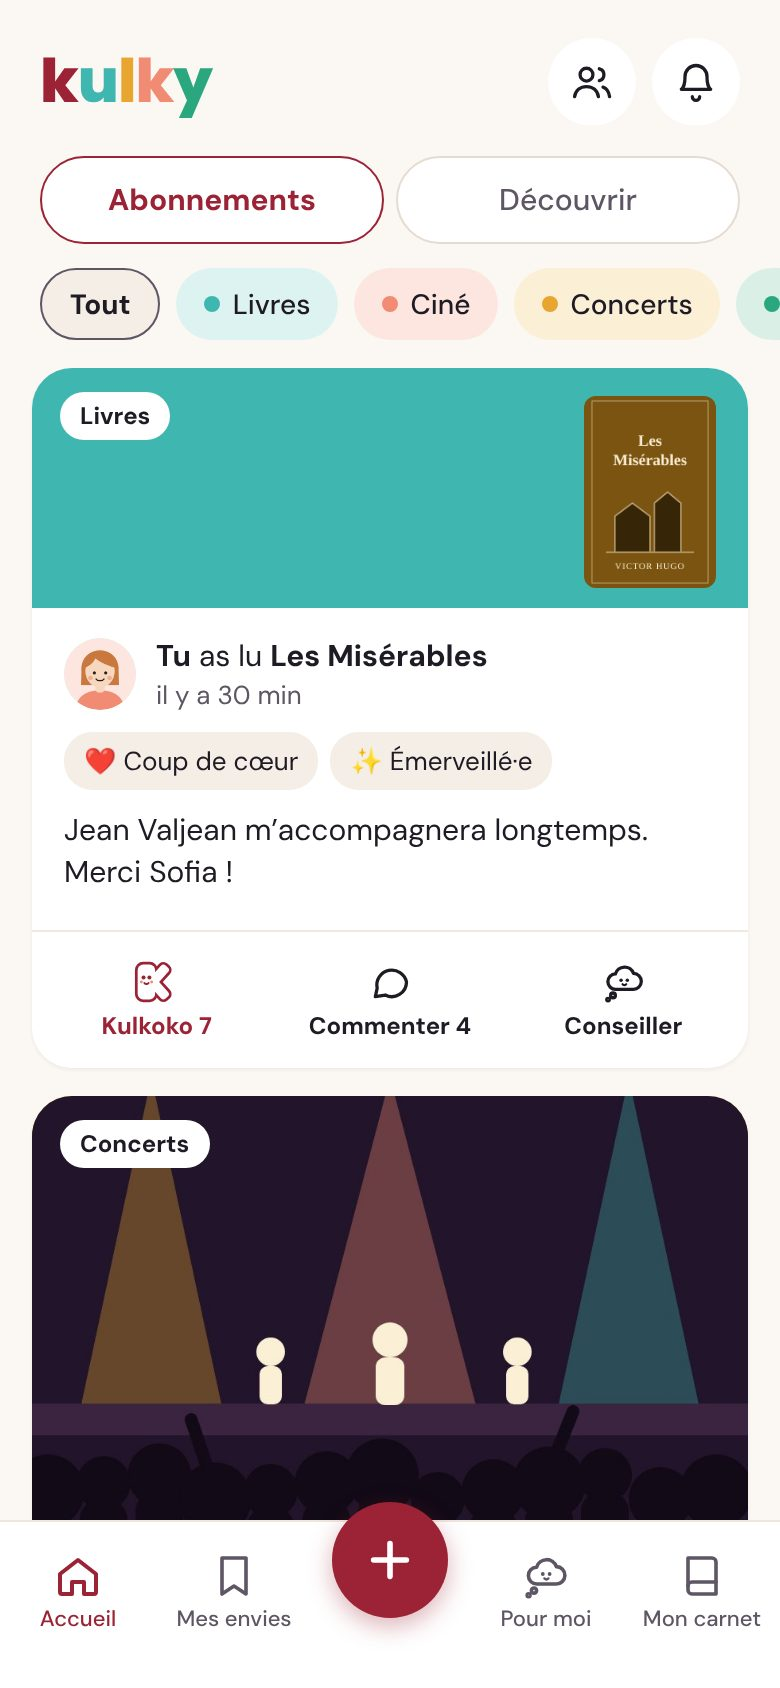
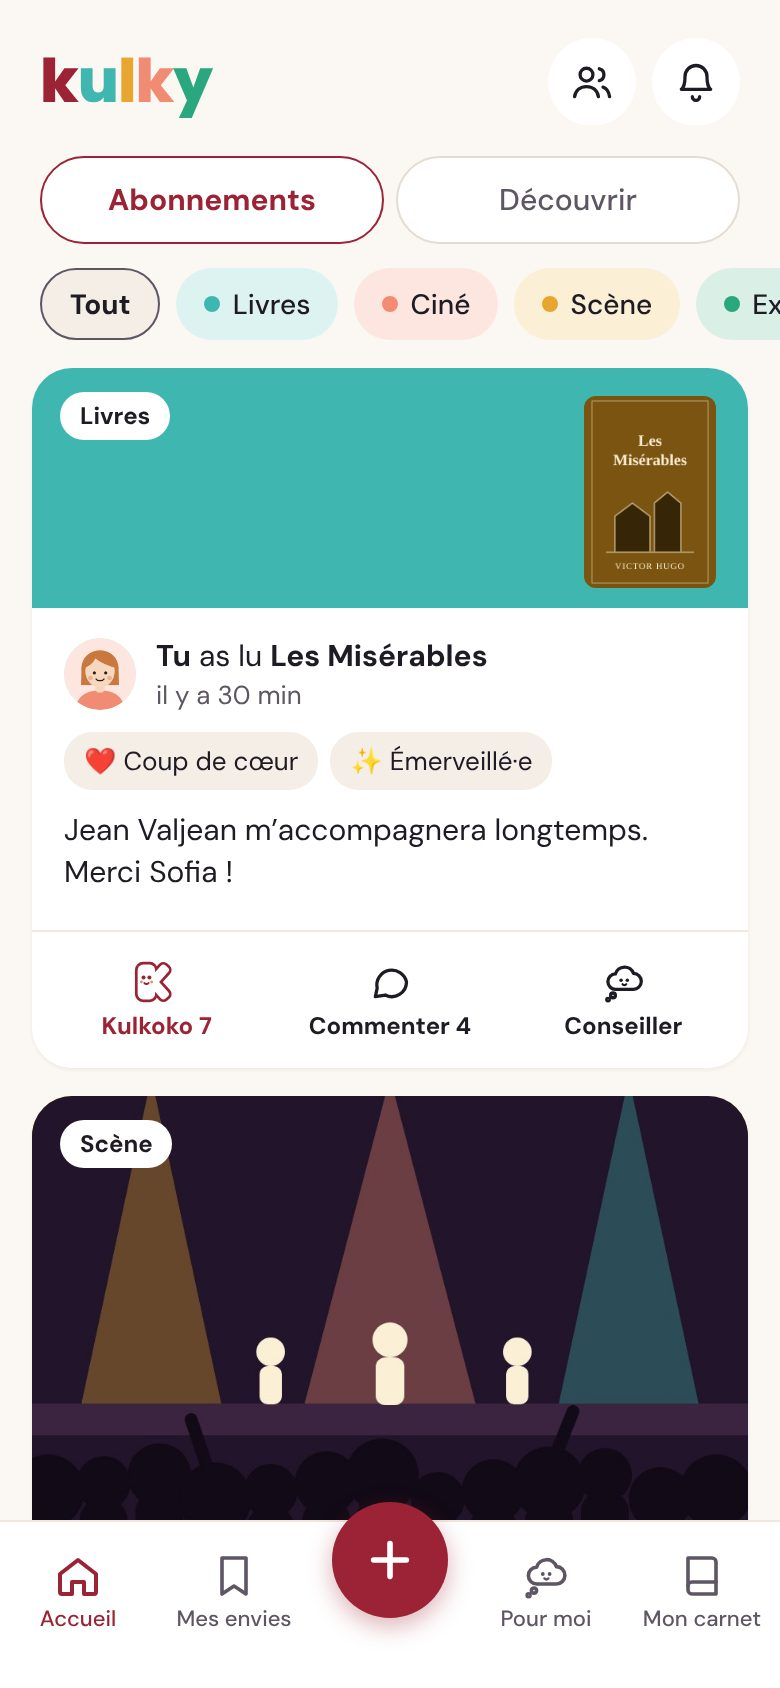
Site : concerts et spectacles, le spectacle de cirque de Noé, un seul bouton en haut
Claude-Session: https://claude.ai/code/session_01Wusw4yQXqijhUfB2C8zxN9

Changed region(s): [[0.7385, 0.154, 1.0, 0.2156], [0.1231, 0.6469, 0.2769, 0.7085]]

diff --git a/site/index.html b/site/index.html
@@ -264,8 +264,8 @@ p { margin: 0; }
   <section class="ouverture large">
     <div>
       <h1>Ta culture, <em>avec tes amis.</em></h1>
-      <p class="devise">Vis-le, enregistre-le, partage-le. Kulky garde la trace de ce que tu lis, vois et écoutes, et le fait voyager jusqu’à tes amis.</p>
-      <div class="pastilles"><span style="--pt: var(--turquoise); --ptc: var(--turquoise-c); --ptf: var(--turquoise-f)">Livres</span><span style="--pt: var(--corail); --ptc: var(--corail-c); --ptf: var(--corail-f)">Ciné</span><span style="--pt: var(--ambre); --ptc: var(--ambre-c); --ptf: var(--ambre-f)">Concerts</span><span style="--pt: var(--vert); --ptc: var(--vert-c); --ptf: var(--vert-f)">Expos</span></div>
+      <p class="devise">Vis-le, enregistre-le, partage-le. Kulky garde la trace de ce que tu lis, vois, écoutes et applaudis, et le fait voyager jusqu’à tes amis.</p>
+      <div class="pastilles"><span style="--pt: var(--turquoise); --ptc: var(--turquoise-c); --ptf: var(--turquoise-f)">Livres</span><span style="--pt: var(--corail); --ptc: var(--corail-c); --ptf: var(--corail-f)">Ciné</span><span style="--pt: var(--ambre); --ptc: var(--ambre-c); --ptf: var(--ambre-f)">Concerts et spectacles</span><span style="--pt: var(--vert); --ptc: var(--vert-c); --ptf: var(--vert-f)">Expos</span></div>
       <div class="actions">
         <a class="bouton" href="https://culky.vercel.app/bienvenue">Créer mon Kulky</a>
         <a class="bouton clair" href="#comment">Voir comment ça marche</a>
@@ -283,7 +283,7 @@ p { margin: 0; }
       <button type="button" id="b-culture" aria-pressed="false">Sur Kulky</button>
     </div>
     <div class="paires">
-      <div class="paire" style="--d: 0s; --fc: var(--turquoise-c); --ff: var(--turquoise-f)"><div class="face"><div class="sport"><i>🏃</i><b>Une course</b></div><div class="culture"><i>📖</i><b>Un livre, un film, un concert</b></div></div></div>
+      <div class="paire" style="--d: 0s; --fc: var(--turquoise-c); --ff: var(--turquoise-f)"><div class="face"><div class="sport"><i>🏃</i><b>Une course</b></div><div class="culture"><i>📖</i><b>Un livre, un film, un spectacle</b></div></div></div>
       <div class="paire" style="--d: .08s; --fc: var(--bordeaux-c); --ff: var(--bordeaux)"><div class="face"><div class="sport"><i>👍</i><b>Des encouragements</b></div><div class="culture"><i>👏</i><b>Le Kulkoko</b></div></div></div>
       <div class="paire" style="--d: .16s; --fc: var(--vert-c); --ff: var(--vert-f)"><div class="face"><div class="sport"><i>📈</i><b>Tes kilomètres de l’année</b></div><div class="culture"><i>✨</i><b>Ton année culturelle</b></div></div></div>
       <div class="paire" style="--d: .24s; --fc: var(--ambre-c); --ff: var(--ambre-f)"><div class="face"><div class="sport"><i>🗺</i><b>Un parcours partagé</b></div><div class="culture"><i>💭</i><b>Un conseil qui voyage</b></div></div></div>
@@ -320,12 +320,12 @@ p { margin: 0; }
     <article class="pilier" style="--fond: var(--turquoise-c); --fonce: var(--turquoise-f)">
       <div class="gauche">
         <div class="grand"><small>1. Je vis</small>Vis-le.</div>
-        <p>Un roman qui t’a tenu éveillé·e, un film en plein air, un concert dans une petite salle, une expo un dimanche. Tout compte, et tout se retrouve au même endroit.</p>
+        <p>Un roman qui t’a tenu éveillé·e, un film en plein air, un concert dans une petite salle, le spectacle de cirque de ton petit dernier, une expo un dimanche. Tout compte, et tout se retrouve au même endroit.</p>
       </div>
       <div class="univers-tuiles">
         <div class="ut" style="--u: var(--turquoise); --uf: var(--turquoise-f)"><span class="ico"><svg viewBox="0 0 24 24" fill="none" stroke="#fff" stroke-width="2" stroke-linecap="round" stroke-linejoin="round"><path d="M4 5.5C4 4.7 4.7 4 5.5 4H11v16H5.5C4.7 20 4 19.3 4 18.5z"/><path d="M20 5.5c0-.8-.7-1.5-1.5-1.5H13v16h5.5c.8 0 1.5-.7 1.5-1.5z"/></svg></span><b>Livres</b><span>Romans, BD, essais, poésie</span></div>
         <div class="ut" style="--u: var(--corail); --uf: var(--corail-f)"><span class="ico"><svg viewBox="0 0 24 24" fill="none" stroke="#fff" stroke-width="2" stroke-linecap="round" stroke-linejoin="round"><rect x="3" y="9" width="18" height="11" rx="2"/><path d="M3 9l2.5-5 4 1.5L7 9M11 9l2.5-5 4 1.5L15 9"/></svg></span><b>Ciné</b><span>En salle ou à la maison</span></div>
-        <div class="ut" style="--u: var(--ambre); --uf: var(--ambre-f)"><span class="ico"><svg viewBox="0 0 24 24" fill="none" stroke="#fff" stroke-width="2" stroke-linecap="round" stroke-linejoin="round"><path d="M9 18V5l11-2v13"/><circle cx="6" cy="18" r="3"/><circle cx="17" cy="16" r="3"/></svg></span><b>Concerts</b><span>Du festival à la petite salle</span></div>
+        <div class="ut" style="--u: var(--ambre); --uf: var(--ambre-f)"><span class="ico"><svg viewBox="0 0 24 24" fill="none" stroke="#fff" stroke-width="2" stroke-linecap="round" stroke-linejoin="round"><path d="M9 18V5l11-2v13"/><circle cx="6" cy="18" r="3"/><circle cx="17" cy="16" r="3"/></svg></span><b>Scène</b><span>Concerts, théâtre, danse, cirque</span></div>
         <div class="ut" style="--u: var(--vert); --uf: var(--vert-f)"><span class="ico"><svg viewBox="0 0 24 24" fill="none" stroke="#fff" stroke-width="2" stroke-linecap="round" stroke-linejoin="round"><rect x="3" y="4" width="18" height="14" rx="1.5"/><path d="M3 15l5-5 4 4 3-3 6 6"/><circle cx="16" cy="8.5" r="1.5"/></svg></span><b>Expos</b><span>Musées, galeries, street art</span></div>
       </div>
     </article>
@@ -337,7 +337,7 @@ p { margin: 0; }
       </div>
       <div class="atouts">
         <div class="atout" style="--vfond: var(--beige)">
-          <div class="visuel"><div class="journal"><div style="--jc: #3FB6B0">Les Misérables<small>hier</small></div><div style="--jc: #F28B73">Le Voyage dans la Lune<small>mars</small></div><div style="--jc: #E8A631">Les Nuits Jaunes<small>janv.</small></div></div></div>
+          <div class="visuel"><div class="journal"><div style="--jc: #3FB6B0">Les Misérables<small>hier</small></div><div style="--jc: #F28B73">Le Voyage dans la Lune<small>mars</small></div><div style="--jc: #E8A631">Le spectacle de cirque de Noé<small>juin</small></div></div></div>
           <b>Ta mémoire culturelle</b><span>« C’était quoi, ce livre que j’avais adoré ? » Tout est dans ton journal, avec ce que tu en avais dit.</span>
         </div>
         <div class="atout" style="--vfond: var(--vert-c)">
